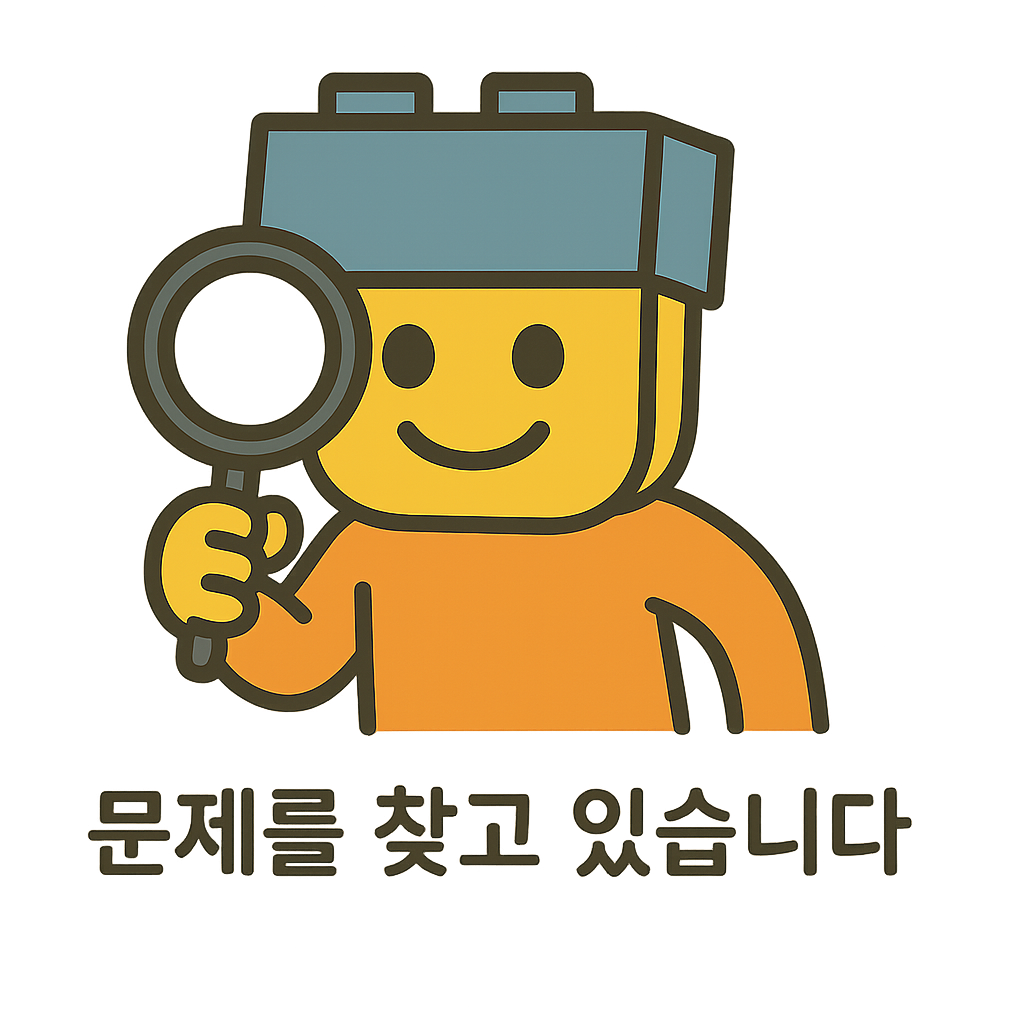
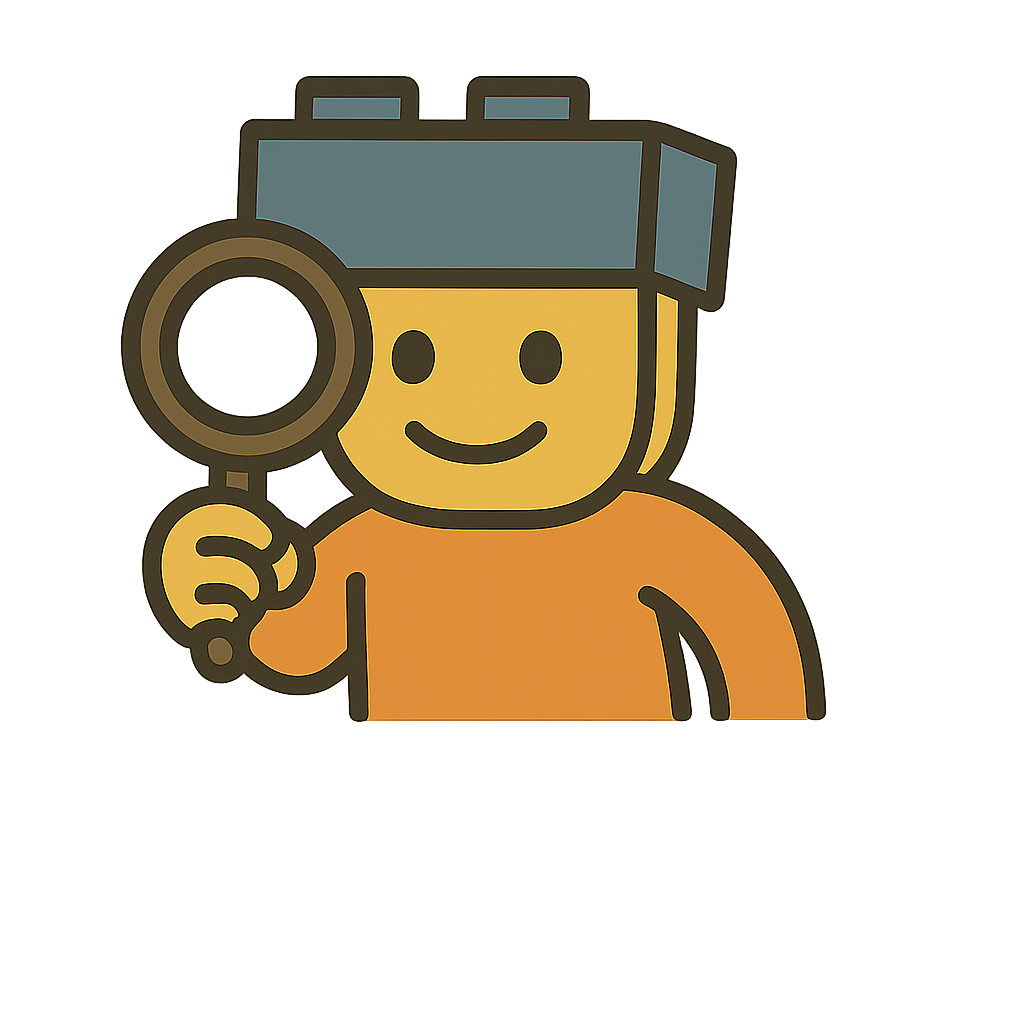
fix: 로딩 이미지, 결과 없음 이미지 레이아웃 수정

Changed region(s): [[0.0938, 0.0625, 0.8125, 0.7188], [0.0938, 0.75, 0.5312, 0.875], [0.5625, 0.75, 0.9062, 0.875]]

diff --git a/src/app/questions/page.tsx b/src/app/questions/page.tsx
@@ -28,18 +28,16 @@ export default function QuestionListPage() {
   const [isLoggedIn, setIsLoggedIn] = useState(false);
   const [isLoading, setIsLoading] = useState(true);
 
-  // ====================== URL 파라미터 추출 ======================
   const router = useRouter();
   const searchParams = useSearchParams();
 
   const [pageNumber, setPageNumber] = useState(1);
   const [currentPageBlock, setCurrentPageBlock] = useState(1);
+
   const categoryIdFromURL = searchParams.get("categoryId");
   const selectedCategoryId = categoryIdFromURL ? Number(categoryIdFromURL) : null;
   const user = useAuthStore((state) => state.user);
   const usesrEmail = user?.email;
-
-  
 
   const sortOption = (searchParams.get("sortBy") as "recent" | "bookmark") ?? "recent";
   const filterOption = (searchParams.get("filter") as "all" | "bookmarked" | "answered") ?? "all";
@@ -49,7 +47,8 @@ export default function QuestionListPage() {
       ? "전체"
       : (categories.find((c) => c.id === selectedCategoryId)?.name ?? "전체");
 
-  const getImageUrlByCategory = (categoryId: number) => `/assets/images/category/${categoryId}.svg`;
+  const getImageUrlByCategory = (categoryId: number) =>
+    `/assets/images/category/${categoryId}.svg`;
 
   useEffect(() => {
     const fetchCategories = async () => {
@@ -66,7 +65,7 @@ export default function QuestionListPage() {
 
   useEffect(() => {
     let isCurrent = true;
-    setIsLoading(true); // 로딩 시작
+    setIsLoading(true);
 
     const fetchSortedQuestions = async () => {
       let email: string | undefined = undefined;
@@ -115,12 +114,11 @@ export default function QuestionListPage() {
         }
       }
 
-      // ✅ 중복 제거
       data = Array.from(new Map(data.map((q) => [q.id, q])).values());
 
       setQuestions(data);
       setFilteredQuestions([]);
-      setIsLoading(false); // 로딩 끝
+      setIsLoading(false);
     };
 
     fetchSortedQuestions();
@@ -129,8 +127,6 @@ export default function QuestionListPage() {
       isCurrent = false;
     };
   }, [searchParams.toString()]);
-
-  // ====================== Throttled 이벤트 핸들러 ======================
 
   const throttledHandleCategoryChange = throttle((name: string) => {
     const category = categories.find((c) => c.name === name);
@@ -179,13 +175,13 @@ export default function QuestionListPage() {
   const handleSearch = () => {
     const keyword = searchKeyword.trim().toLowerCase();
     const params = new URLSearchParams(searchParams.toString());
-  
+
     if (keyword) {
       params.set("search", keyword);
     } else {
       params.delete("search");
     }
-  
+
     router.push(`/questions?${params.toString()}`);
     setPageNumber(1);
   };
@@ -193,7 +189,7 @@ export default function QuestionListPage() {
   useEffect(() => {
     const keywordFromURL = searchParams.get("search")?.trim().toLowerCase() ?? "";
     setSearchKeyword(keywordFromURL);
-  
+
     if (keywordFromURL && questions.length > 0) {
       const matched = questions.filter((q) =>
         q.content.toLowerCase().includes(keywordFromURL)
@@ -238,7 +234,6 @@ export default function QuestionListPage() {
 
   return (
     <div className="w-[948px] container mx-auto pt-[40px] md:px-6">
-      {/* 배너 */}
       <div className="relative w-[948px] h-[115px] mb-6 overflow-hidden">
         <Image
           src="/assets/images/banner.svg"
@@ -250,7 +245,6 @@ export default function QuestionListPage() {
         />
       </div>
 
-      {/* 검색창 */}
       <div className="flex items-center gap-4">
         <Input
           placeholder="면접 문제 검색"
@@ -271,10 +265,8 @@ export default function QuestionListPage() {
         </Button>
       </div>
 
-      {/* 검색창 하단 마진 */}
       <div className="mb-[12px]" />
 
-      {/* 카테고리 & 필터 선택 */}
       <div className="flex items-center gap-2 mb-6">
         <Select onValueChange={throttledHandleCategoryChange} value={selectedCategoryName}>
           <SelectTrigger className="w-[204px] h-[40px] text-[var(--black)]">
@@ -304,68 +296,57 @@ export default function QuestionListPage() {
         )}
       </div>
 
-      {/* 정렬 옵션 */}
-      <div className="flex items-center justify-between mb-[12px]">
-        <h2 className="txt-lg-b">문제</h2>
-        <div className="flex gap-[12px]">
-          <Button variant="ghost" size="sm" onClick={() => handleSortClick("bookmark")}>
-            인기순
-          </Button>
-          <Button variant="ghost" size="sm" onClick={() => handleSortClick("recent")}>
-            최신순
-          </Button>
-        </div>
-      </div>
-
-      <div className="flex flex-col gap-[16px] min-h-[300px]">
+      <div className="flex justify-center items-center min-h-[300px]">
   {isLoading ? (
     // 🔄 로딩 중
-    <div className="flex justify-center items-center py-20">
+    <div className="flex flex-col items-center">
       <Image
         src="/assets/images/QuestionsLoading.png"
         alt="문제 로딩 중"
         width={240}
         height={240}
       />
+      <p className="mt-4 text-sm text-gray-500">문제를 불러오는 중입니다...</p>
     </div>
-  ) :  visibleQuestions.length > 0 ? (
-    // ✅ 문제 있음
-    pagedQuestions.map((question) => (
-      <Link key={question.id} href={`/questions/${question.id}`}>
-        <Card className="cursor-pointer hover:shadow-md transition-shadow duration-200">
-          <div className="flex h-full items-center justify-between">
-            <div className="flex items-center gap-4">
-              <Image
-                src={getImageUrlByCategory(question.categoryId)}
-                alt="문"
-                width={32}
-                height={32}
-                className="rounded-md"
-              />
-              <span className="txt-2xl-b">{question.content}</span>
+  ) : visibleQuestions.length > 0 ? (
+    <div className="flex flex-col gap-[16px] w-full">
+      {pagedQuestions.map((question) => (
+        <Link key={question.id} href={`/questions/${question.id}`}>
+          <Card className="cursor-pointer hover:shadow-md transition-shadow duration-200">
+            <div className="flex h-full items-center justify-between">
+              <div className="flex items-center gap-4">
+                <Image
+                  src={getImageUrlByCategory(question.categoryId)}
+                  alt="문"
+                  width={32}
+                  height={32}
+                  className="rounded-md"
+                />
+                <span className="txt-2xl-b">{question.content}</span>
+              </div>
+              <div className="flex items-center gap-4 text-[14px] font-bold leading-[150%] text-[var(--gray-02)]">
+                <span>북마크한 사람 {question.bookmark_count}</span>
+                <span>답변을 완료한 사람 {question.answer_count}</span>
+              </div>
             </div>
-            <div className="flex items-center gap-4 text-[14px] font-bold leading-[150%] text-[var(--gray-02)]">
-              <span>북마크한 사람 {question.bookmark_count}</span>
-              <span>답변을 완료한 사람 {question.answer_count}</span>
-            </div>
-          </div>
-        </Card>
-      </Link>
-    ))
+          </Card>
+        </Link>
+      ))}
+    </div>
   ) : (
     // ❌ 문제 없음
-    <div className="flex flex-col items-center justify-center mt-10 text-center">
+    <div className="flex flex-col items-center">
       <Image
         src="/assets/images/QuestionsNotFound.png"
         alt="결과 없음"
         width={240}
         height={240}
       />
+      <p className="mt-4 text-sm text-gray-500">조건에 해당하는 문제가 없습니다.</p>
     </div>
   )}
 </div>
 
-      {/* 페이지네이션 */}
       <Pagination
         totalCount={totalCount}
         itemsPerPage={10}
